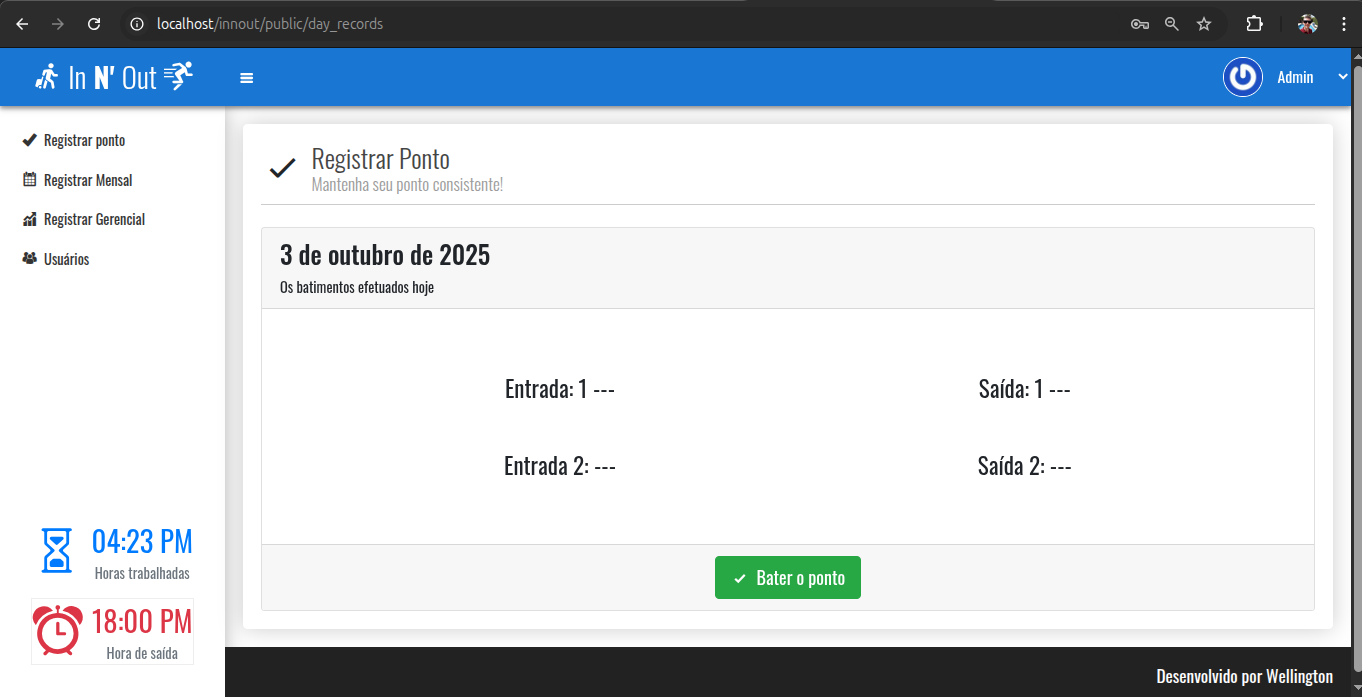
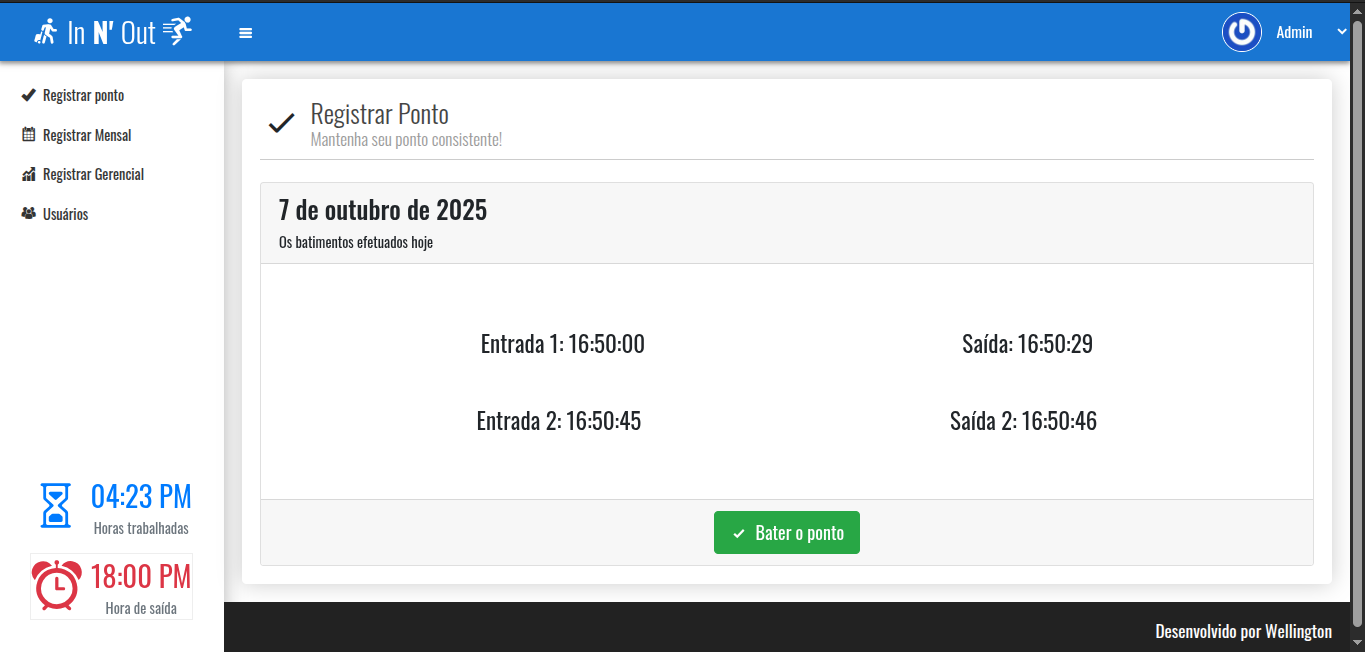
New functions include innout

diff --git a/src/models/Model.php b/src/models/Model.php
@@ -31,14 +31,16 @@ class Model
         $this->values[$key] = $value;
     }
 
-    public static function getOne($filters = [], $columns = '*') {
+    public static function getOne($filters = [], $columns = '*')
+    {
         $class = get_called_class();
-        
+
         $result = static::getResultSetFromSelect($filters, $columns);
-        return $result ? new $class($result->fetch_assoc()) : null; 
+        return $result ? new $class($result->fetch_assoc()) : null;
     }
 
-    public static function get($filters = [], $columns = '*') {
+    public static function get($filters = [], $columns = '*')
+    {
         $objects = [];
         $result = static::getResultSetFromSelect($filters, $columns);
         if ($result) {
@@ -53,8 +55,8 @@ class Model
     public static function getResultSetFromSelect($filters = [], $columns = '*')
     {
         $sql = "SELECT " . $columns . " FROM "
-            .static::$tableName
-            .static::getFilters($filters);
+            . static::$tableName
+            . static::getFilters($filters);
 
         $result = Database::getResultFromQuery($sql);
         if ($result->num_rows === 0) {
@@ -64,7 +66,8 @@ class Model
         }
     }
 
-    public static function getFilters($filters) {
+    public static function getFilters($filters)
+    {
         $sql = '';
         if (count($filters) > 0) {
             $sql .= " WHERE 1 = 1";
@@ -76,7 +79,8 @@ class Model
         return $sql;
     }
 
-    private static function getFomartedValue($value) {
+    private static function getFomartedValue($value)
+    {
         if (is_null($value)) {
             return "null";
         } elseif (gettype($value) === "string") {
@@ -84,5 +88,28 @@ class Model
         } else {
             return $value;
         }
+    }
+
+    public function insert()
+    {
+        $sql = "INSERT INTO " . static::$tableName . " ("
+            . implode(",", static::$columns) . ") VALUES (";
+        foreach (static::$columns as $col) {
+            $sql .= static::getFomartedValue($this->$col) . ",";
+        }
+        $sql[strlen($sql) - 1] = ")";
+        $id = Database::executeSQL($sql);
+        $this->id = $id;
+        return $id;
+    }
+
+    public function update() {
+        $sql = "UPDATE " . static::$tableName . " SET ";
+        foreach(static::$columns as $col) {
+            $sql .= " {$col} = " . static::getFomartedValue($this->$col) . ",";
+        }
+        $sql[strlen($sql) - 1] = " ";
+        $sql .= "WHERE id = {$this->id}";
+        Database::executeSQL($sql);
     }
 }

diff --git a/src/controllers/DataGeneratorController.php b/src/controllers/DataGeneratorController.php
@@ -1,4 +1,8 @@
 <?php
+loadModel('WorkingHours');
+
+Database::executeSQL('DELETE FROM working_hours');
+Database::executeSQL('DELETE FROM users WHERE id > 5');
 
 function getDayTemplateByOdds($regularRate, $extraRate, $lazyRate)
 {
@@ -36,4 +40,27 @@ function getDayTemplateByOdds($regularRate, $extraRate, $lazyRate)
     }
 }
 
-print_r(getDayTemplateByOdds(10, 20, 70));
+function populateWorkingHours($userId, $initialDate, $regularRate, $extraRate, $lazyRate) {
+    $currentDate = $initialDate;
+    $yesterday = new DateTime();
+    $yesterday->modify('-1 day');
+    $columns = ["user_id" => $userId, "work_date" => $currentDate];
+
+    while (isBefore($currentDate, $yesterday)) {
+        if (isWeekend($currentDate)) {
+            $template = getDayTemplateByOdds($regularRate, $extraRate, $lazyRate);
+            $columns = array_merge($columns, $template);
+            $workingHours = new WorkingHours($columns);
+            $workingHours->insert();
+        }
+        $currentDate = getNextDay($currentDate)->format('Y-m-d');
+        $columns["work_date"] = $currentDate;
+    }
+}
+
+$lastMonth = strtotime("first day of last month");
+populateWorkingHours(1, date('Y-m-1'), 70, 20, 10);
+populateWorkingHours(3, date('Y-m-d', $lastMonth), 20, 75, 5);
+populateWorkingHours(4, date('Y-m-d', $lastMonth), 20, 10, 70);
+
+echo 'TUDO CERTO';

diff --git a/src/models/WorkingHours.php b/src/models/WorkingHours.php
@@ -1,0 +1,53 @@
+<?php 
+
+class WorkingHours extends Model {
+    protected static $tableName = 'working_hours';
+    protected static $columns = [
+        'id',
+        'user_id',
+        'work_date',
+        'time1',
+        'time2',
+        'time3',
+        'time4',
+        'worked_time'
+    ];
+
+    public static function loadFromUserAndDate($userId, $workDate) {
+        $registry = self::getOne(["user_id" => $userId, "work_date" => $workDate]);
+
+        if(!$registry) {
+            $registry = new WorkingHours([
+                "user_id" => $userId, 
+                "work_date" => $workDate,
+                "worked_time" => 0
+            ]);
+        }
+
+        return $registry;
+    }
+
+    public function getNextTime() {
+        if (!$this->time1) return "time1"; 
+        if (!$this->time2) return "time2"; 
+        if (!$this->time3) return "time3"; 
+        if (!$this->time4) return "time4";
+        return null;
+    }
+
+    public function innout($time) {
+        $timeColumn = $this->getNextTime();
+        if (!$timeColumn) {
+            throw new AppException("Você já fez os quatro batimentos do dia");
+        } 
+        $this->{$timeColumn} = $time; 
+
+        if ($this->id) {
+            $this->update();
+        } else {
+            $this->insert();
+        }
+    }
+}
+
+?>

diff --git a/src/views/day_records.php b/src/views/day_records.php
@@ -14,16 +14,16 @@
         </div>
         <div class="card-body">
             <div class="d-flex m-5 justify-content-around">
-                <span class="record">Entrada: 1 ---</span>
-                <span class="record">Saída: 1 ---</span>
+                <span class="record">Entrada 1: <?= $records->time1 ?? '---' ?></span>
+                <span class="record">Saída: <?= $records->time2 ?? '---' ?> </span>
             </div>
             <div class="d-flex m-5 justify-content-around">
-                <span class="record">Entrada 2: ---</span>
-                <span class="record">Saída 2: ---</span>
+                <span class="record">Entrada 2: <?= $records->time3 ?? '---' ?></span>
+                <span class="record">Saída 2: <?= $records->time4 ?? '---' ?></span>
             </div>
         </div>
         <div class="card-footer d-flex justify-content-center">
-            <a href="???" class="btn btn-success btn-lg">
+            <a href=<?= BASE_URL . "/Innout" ?> class="btn btn-success btn-lg">
                 <i class="icofont-check mr-1"></i>
                 Bater o ponto
             </a>

diff --git a/src/controllers/DayRecordsController.php b/src/controllers/DayRecordsController.php
@@ -6,6 +6,8 @@ $message = null;
 
 requireValidSession();
 
+loadModel('WorkingHours');
+
 $date = new DateTime();
 $formatter = new IntlDateFormatter(
     'pt_BR',
@@ -17,8 +19,12 @@ $formatter = new IntlDateFormatter(
 );
 $today = $formatter->format($date);
 
+$user = $_SESSION['user'];
+$records = WorkingHours::loadFromUserAndDate($user->id, date('Y-m-d'));
+
 loadTemplateView('day_records', [
     'today' => $today,
+    'records' => $records,
     'exception' => $exception,
     'message' => $message
 ]);

diff --git a/src/config/database.php b/src/config/database.php
@@ -20,4 +20,15 @@ class Database {
         $conn->close();
         return $result;
     }
+
+    public static function executeSQL($sql) {
+        $conn = self::getConnection();
+        if (!mysqli_query($conn, $sql)) {
+            throw new Exception(mysqli_error($conn));
+        }
+        $id = $conn->insert_id;
+        $conn->close();
+        return $id;
+    }
+
 };

diff --git a/public/index.php b/public/index.php
@@ -18,6 +18,11 @@ if ($uri === '') {
     $uri = 'day_records';
 }
 
+// Para evitar que o nome final fique duplicado
+if (substr($uri, -10) === 'Controller') { // 'Controller' tem 10 caracteres
+    $uri = substr($uri, 0, -10);
+}
+
 // Converte para PascalCase se tiver underscores
 $controllerBaseName = str_replace(' ', '', ucwords(str_replace('_', ' ', $uri)));
 

diff --git a/src/controllers/InnoutController.php b/src/controllers/InnoutController.php
@@ -1,0 +1,14 @@
+<?php 
+session_start();
+requireValidSession();
+loadModel("WorkingHours");
+
+$user = $_SESSION['user'];
+$records = WorkingHours::loadFromUserAndDate($user->id, date('Y-m-d'));
+
+$date = new DateTime(); 
+$timeToSave = $date->format('H:i:s'); 
+
+$records->innout($timeToSave);
+
+header("Location: day_records");
